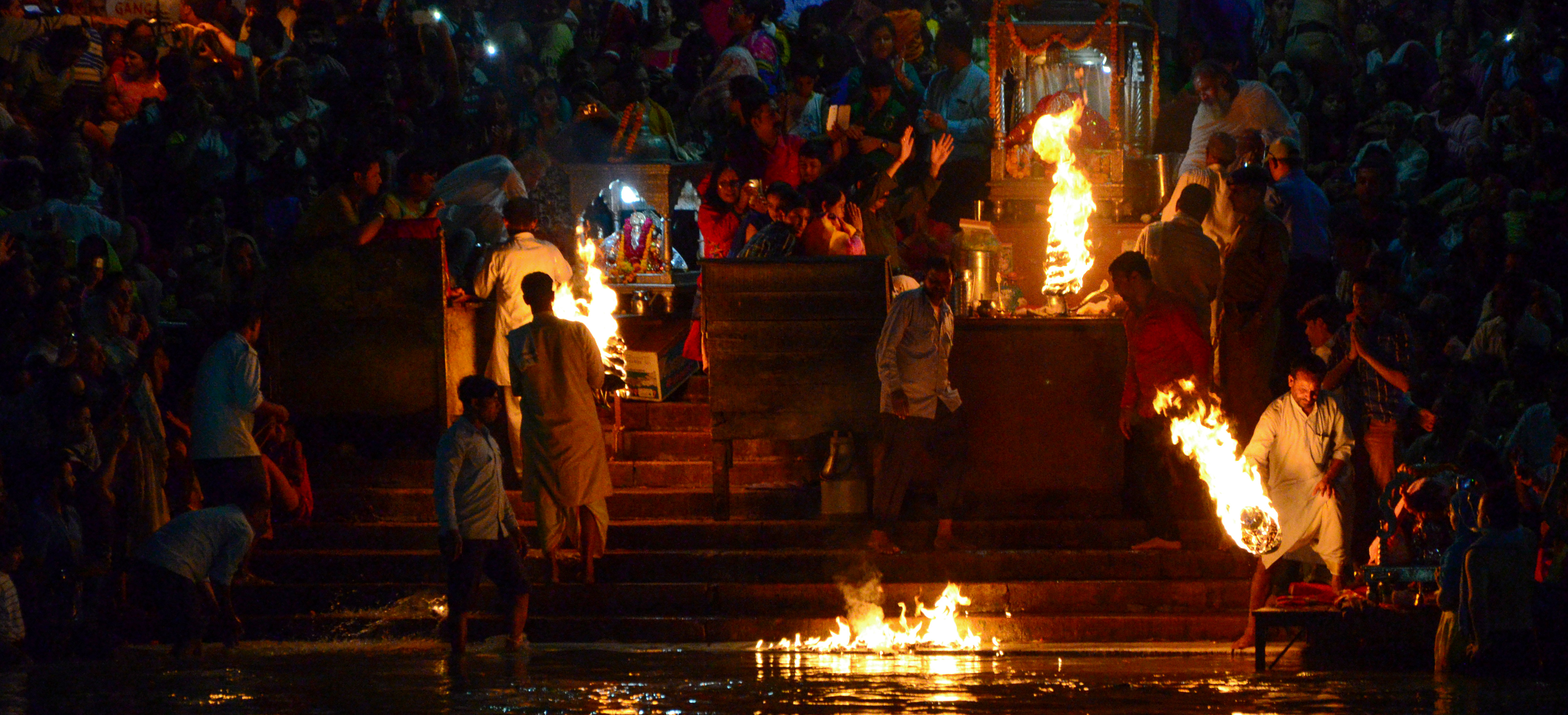
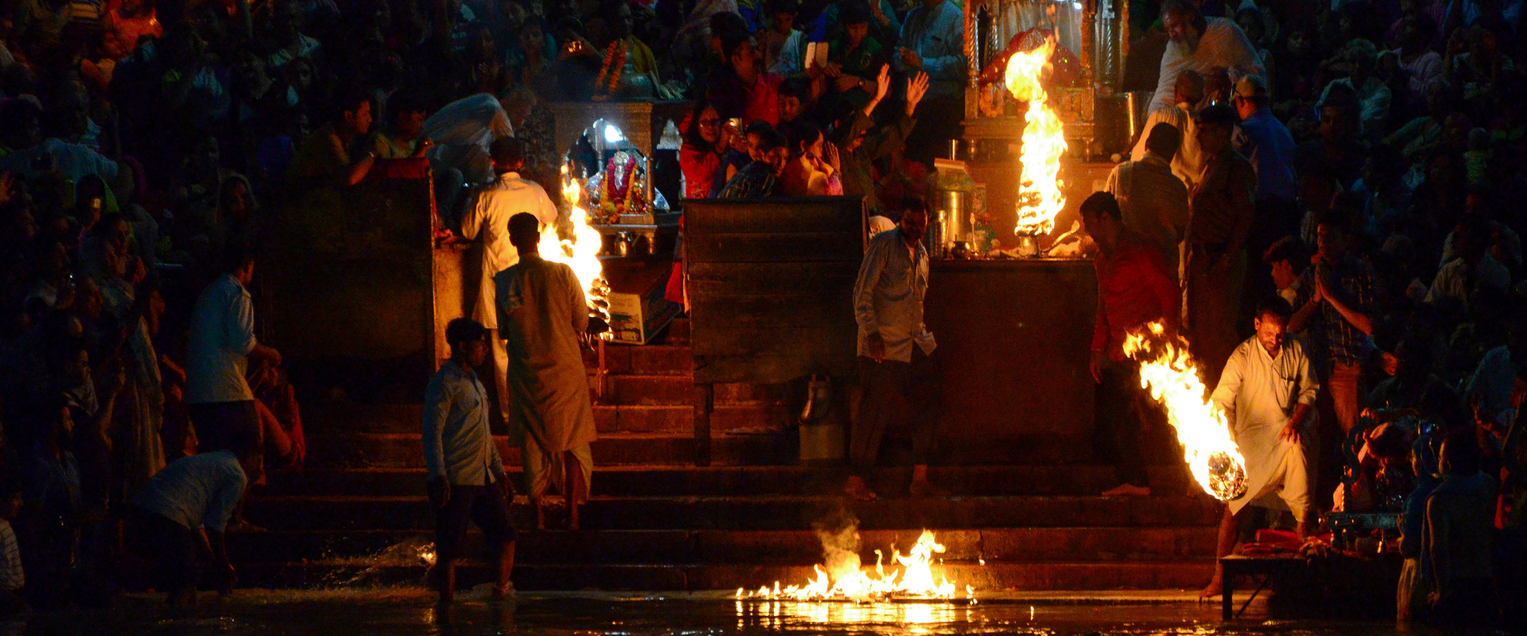
image resize

diff --git a/src/app/item-grid/item-grid.component.css b/src/app/item-grid/item-grid.component.css
@@ -12,7 +12,7 @@
 
 .carousel-inner img {
     width: 100%;
-    height: 400px;
+    height: 100%;
 }
 
 .product{
